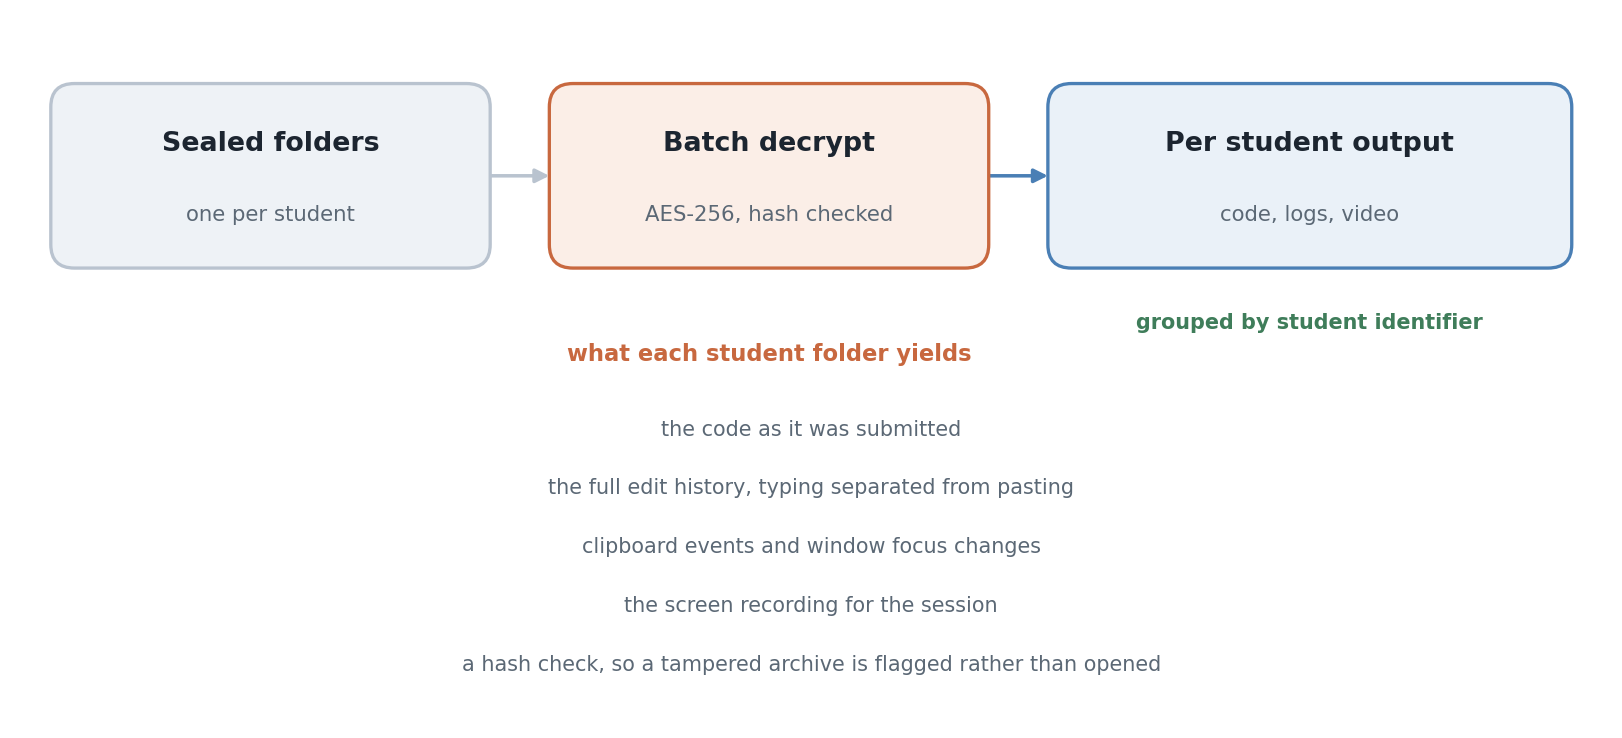
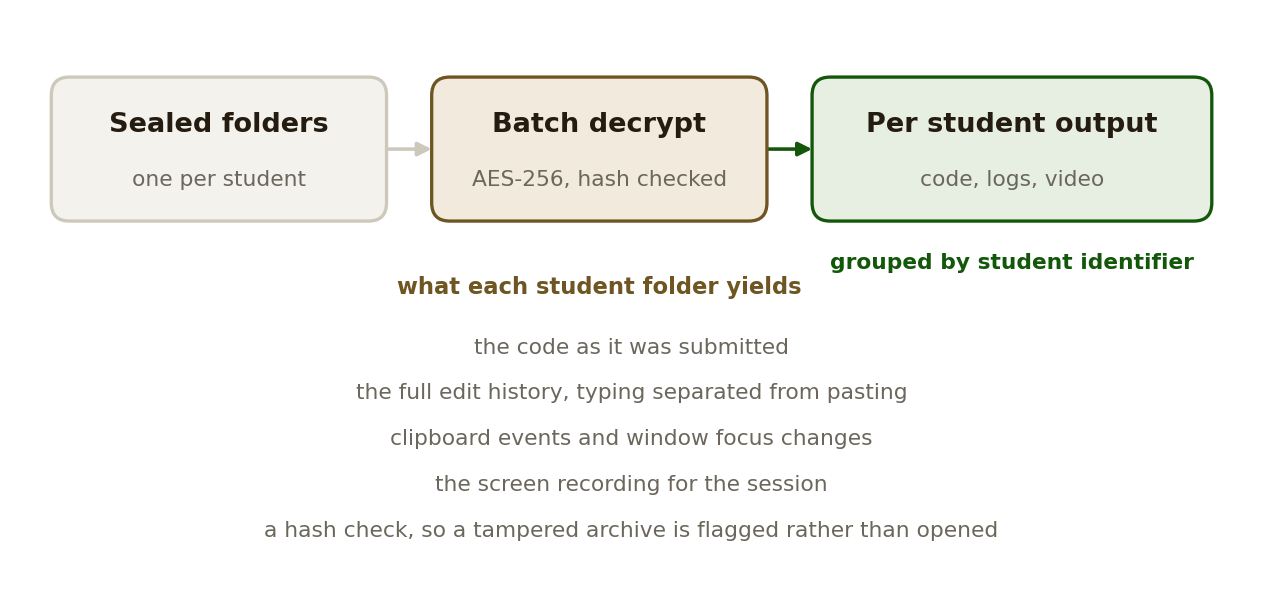
Rebuild README to the second standard
Centered header with shields badges in the fixed order, a Status badge, a
captioned hero redrawn with the shared figstyle palette on a transparent
ground, and a Related section pointing at MINT Exam IDE. README and docs
only; no source file is touched.

diff --git a/docs/figures/figstyle.py b/docs/figures/figstyle.py
@@ -1,0 +1,123 @@
+"""House style for README figures. Copy this file next to make_hero.py.
+
+One palette for every repository, taken from the portfolio site, so a README
+figure, a social preview card and the site read as one hand. Light figures sit
+on GitHub's white canvas, dark figures on its #0d1117 canvas. Both are saved
+with a transparent background: GitHub paints its own canvas behind README
+images, so the figure follows whichever theme the reader has, including the
+dimmed dark theme, without a visible rectangle.
+
+Type: if a fonts/ directory sits beside this file with Archivo-Regular.ttf,
+Archivo-SemiBold.ttf and IBMPlexMono-Medium.ttf (built by
+_standards/fonts/build_fonts.py), labels are set in Archivo and numbers in IBM
+Plex Mono, the site's faces. Without it, DejaVu Sans, so nothing breaks.
+
+    import figstyle
+
+    def draw(T):                       # T is one entry of figstyle.PALETTE
+        fig, ax = plt.subplots(figsize=(figstyle.WIDTH, 4.6))
+        ax.text(..., fontfamily=figstyle.MONO)     # numbers
+        return fig
+
+    figstyle.save_both(draw, HERE + "hero_scenarios")
+    # writes hero_scenarios.png and hero_scenarios-dark.png
+
+Contrast on the canvas each theme is drawn for, WCAG ratio: light green 8.8,
+light gold 7.0, light muted 5.4; dark green 9.8, dark gold 8.4, dark muted 8.2.
+"""
+import glob
+import os
+
+import matplotlib
+
+matplotlib.use("Agg")
+import matplotlib.pyplot as plt
+from matplotlib import font_manager
+
+PALETTE = {
+    "light": dict(
+        canvas="#ffffff",       # GitHub light canvas, for reference only, never painted
+        ink="#241c10",          # site day ink
+        soft="#332918",
+        muted="#6b675c",
+        line="#cdc8bb",
+        fill="#f4f2ec",         # box fill, a warm paper tint on white
+        green="#12570a",        # site day green
+        gold="#6f5522",         # site day gold
+        green_fill="#e6efe2",
+        gold_fill="#f2ebdd",
+    ),
+    "dark": dict(
+        canvas="#0d1117",       # GitHub dark canvas, for reference only, never painted
+        ink="#ece7d9",          # site night ink, bone white
+        soft="#ddd9cb",
+        muted="#a9ac9b",
+        line="#3a3c33",
+        fill="#161811",
+        green="#44d62c",        # site night green, phosphor
+        gold="#c9a96a",         # site night gold, brass
+        green_fill="#12200f",
+        gold_fill="#26211a",
+    ),
+}
+
+DPI = 170
+WIDTH = 9.2      # inches. 900 / (9.2 * 170) = 0.575, so labels survive the README column.
+TITLE = 11.5     # point sizes the standard fixes
+BODY = 9.6
+SMALL = 9.2
+
+_FONTS = os.path.join(os.path.dirname(os.path.abspath(__file__)), "fonts")
+_have_fonts = False
+for _p in glob.glob(os.path.join(_FONTS, "*.ttf")):
+    font_manager.fontManager.addfont(_p)
+    _have_fonts = True
+_names = {f.name for f in font_manager.fontManager.ttflist}
+SANS = "Archivo" if _have_fonts and "Archivo" in _names else "DejaVu Sans"
+MONO = "IBM Plex Mono" if _have_fonts and "IBM Plex Mono" in _names else "DejaVu Sans Mono"
+
+
+def apply(T):
+    """Set matplotlib defaults for one theme. Called by save_both before draw()."""
+    plt.rcParams.update({
+        "font.family": SANS,
+        "font.size": BODY,
+        "text.color": T["ink"],
+        "axes.labelcolor": T["muted"],
+        "axes.edgecolor": T["line"],
+        "axes.linewidth": 1.0,
+        "axes.titlesize": TITLE,
+        "axes.titleweight": "bold",
+        "axes.titlecolor": T["ink"],
+        "axes.spines.top": False,
+        "axes.spines.right": False,
+        "axes.grid": False,
+        "xtick.color": T["muted"],
+        "ytick.color": T["muted"],
+        "xtick.labelsize": BODY,
+        "ytick.labelsize": BODY,
+        "legend.frameon": False,
+        "legend.fontsize": BODY,
+        "figure.facecolor": "none",
+        "axes.facecolor": "none",
+        "savefig.facecolor": "none",
+        "savefig.edgecolor": "none",
+    })
+
+
+def mono_ticks(ax, axis="y"):
+    """Set an axis's tick labels in the numeric face."""
+    for label in (ax.get_yticklabels() if axis == "y" else ax.get_xticklabels()):
+        label.set_fontfamily(MONO)
+
+
+def save_both(draw, stem):
+    """Render draw(T) once per theme and write <stem>.png and <stem>-dark.png."""
+    for theme, suffix in (("light", ""), ("dark", "-dark")):
+        T = PALETTE[theme]
+        apply(T)
+        fig = draw(T)
+        out = f"{stem}{suffix}.png"
+        fig.savefig(out, dpi=DPI, bbox_inches="tight", pad_inches=0.15, transparent=True)
+        plt.close(fig)
+        print("wrote", out)

diff --git a/docs/figures/make_hero.py b/docs/figures/make_hero.py
@@ -1,24 +1,18 @@
-"""Render the grading flow figure used at the top of the README.
+"""Draw the README hero: sealed folders in, per-student results out.
 
     python docs/figures/make_hero.py
 
 Writes hero_grading.png and hero_grading-dark.png.
 """
 import os
+import sys
 
-import matplotlib
-matplotlib.use("Agg")
-import matplotlib.pyplot as plt
-from matplotlib.patches import FancyBboxPatch, FancyArrowPatch
+HERE = os.path.dirname(os.path.abspath(__file__)) + os.sep
+sys.path.insert(0, HERE)
 
-THEMES = {
-    "light": dict(bg="white", ink="#1c2530", muted="#5b6875", line="#b9c3cf",
-                  fill="#eef2f6", watch="#c8683f", seal="#4a7fb5", out="#3f7d5a",
-                  fwatch="#fbeee7", fseal="#eaf1f8", fout="#e9f2ec"),
-    "dark": dict(bg="#0d1117", ink="#e6edf3", muted="#9198a1", line="#3d444d",
-                 fill="#161b22", watch="#e08a5c", seal="#6ea8dd", out="#5aa87a",
-                 fwatch="#2a1c14", fseal="#12202f", fout="#12241a"),
-}
+import figstyle  # noqa: E402
+import matplotlib.pyplot as plt  # noqa: E402
+from matplotlib.patches import FancyArrowPatch, FancyBboxPatch  # noqa: E402
 
 RECORDED = [
     "the code as it was submitted",
@@ -28,26 +22,22 @@ RECORDED = [
     "a hash check, so a tampered archive is flagged rather than opened",
 ]
 
-HERE = os.path.dirname(os.path.abspath(__file__))
 
-
-def render(theme, out):
-    T = THEMES[theme]
-    fig, ax = plt.subplots(figsize=(9.4, 4.2), dpi=170)
+def grading(T):
+    fig, ax = plt.subplots(figsize=(figstyle.WIDTH, 4.2))
     ax.set_xlim(0, 94)
     ax.set_ylim(0, 42)
     ax.axis("off")
-    fig.patch.set_facecolor(T["bg"])
+    G, GF, D, DF = T["green"], T["green_fill"], T["gold"], T["gold_fill"]
 
     def box(x, y, w, h, title, sub, edge=None, face=None, tcol=None):
         ax.add_patch(FancyBboxPatch((x, y), w, h, boxstyle="round,pad=0,rounding_size=1.4",
                                     linewidth=1.4, edgecolor=edge or T["line"],
                                     facecolor=face or T["fill"], zorder=2))
-        ax.text(x + w / 2, y + h / 2 + (1.9 if sub else 0), title, ha="center", va="center",
-                fontsize=11.4, color=tcol or T["ink"], fontweight="bold", zorder=3)
-        if sub:
-            ax.text(x + w / 2, y + h / 2 - 2.3, sub, ha="center", va="center",
-                    fontsize=9.0, color=T["muted"], zorder=3)
+        ax.text(x + w / 2, y + h / 2 + 1.9, title, ha="center", va="center",
+                fontsize=figstyle.TITLE, color=tcol or T["ink"], fontweight="bold", zorder=3)
+        ax.text(x + w / 2, y + h / 2 - 2.3, sub, ha="center", va="center",
+                fontsize=figstyle.SMALL, color=T["muted"], zorder=3)
 
     def arrow(x0, y0, x1, y1, c=None):
         ax.add_patch(FancyArrowPatch((x0, y0), (x1, y1), arrowstyle="-|>", mutation_scale=12,
@@ -56,25 +46,19 @@ def render(theme, out):
     W, H, Y = 26.0, 11.0, 27.0
     box(2.0, Y, W, H, "Sealed folders", "one per student")
     arrow(28.0, Y + H / 2, 31.5, Y + H / 2)
-    box(31.5, Y, W, H, "Batch decrypt", "AES-256, hash checked", T["watch"], T["fwatch"])
-    arrow(57.5, Y + H / 2, 61.0, Y + H / 2, T["seal"])
-    box(61.0, Y, 31.0, H, "Per student output", "code, logs, video", T["seal"], T["fseal"])
+    box(31.5, Y, W, H, "Batch decrypt", "AES-256, hash checked", D, DF)
+    arrow(57.5, Y + H / 2, 61.0, Y + H / 2, G)
+    box(61.0, Y, 31.0, H, "Per student output", "code, logs, video", G, GF)
 
-    ax.text(44.5, 21.5, "what each student folder yields", ha="center", fontsize=9.6,
-            color=T["watch"], fontweight="bold")
+    ax.text(44.5, 21.5, "what each student folder yields", ha="center", fontsize=figstyle.BODY,
+            color=D, fontweight="bold")
     for i, line in enumerate(RECORDED):
         ax.text(47.0, 17.4 - i * 3.5, line, ha="center", va="center",
-                fontsize=8.8, color=T["muted"])
-
+                fontsize=figstyle.SMALL, color=T["muted"])
     ax.text(76.5, Y - 3.6, "grouped by student identifier", ha="center",
-            fontsize=8.8, color=T["out"], fontweight="bold")
-
-    fig.tight_layout(pad=0.2)
-    fig.savefig(out, dpi=170, bbox_inches="tight", facecolor=T["bg"])
-    plt.close(fig)
-    print("wrote", out)
+            fontsize=figstyle.SMALL, color=G, fontweight="bold")
+    return fig
 
 
 if __name__ == "__main__":
-    render("light", os.path.join(HERE, "hero_grading.png"))
-    render("dark", os.path.join(HERE, "hero_grading-dark.png"))
+    figstyle.save_both(grading, HERE + "hero_grading")

diff --git a/README.md b/README.md
@@ -1,18 +1,26 @@
+<div align="center">
+
 # MINT Grader
 
 Yuhyeon Lee · 2026
 
-[![build](https://github.com/blueion0612/Mint_IDE_Teacher/actions/workflows/build.yml/badge.svg)](https://github.com/blueion0612/Mint_IDE_Teacher/actions/workflows/build.yml)
-[![Release](https://img.shields.io/github/v/release/blueion0612/Mint_IDE_Teacher)](https://github.com/blueion0612/Mint_IDE_Teacher/releases)
+[![build](https://img.shields.io/github/actions/workflow/status/blueion0612/Mint_IDE_Teacher/build.yml?label=build)](https://github.com/blueion0612/Mint_IDE_Teacher/actions/workflows/build.yml)
 [![License](https://img.shields.io/github/license/blueion0612/Mint_IDE_Teacher)](LICENSE)
 [![Platform](https://img.shields.io/badge/platform-Windows-lightgrey)](#requirements)
+[![Status](https://img.shields.io/badge/status-maintained-orange)](#limitations)
+[![Release](https://img.shields.io/github/v/release/blueion0612/Mint_IDE_Teacher)](https://github.com/blueion0612/Mint_IDE_Teacher/releases)
 
-[**Releases**](https://github.com/blueion0612/Mint_IDE_Teacher/releases) · [**Student IDE**](https://github.com/blueion0612/Mint_IDE_Student)
+[**Releases**](https://github.com/blueion0612/Mint_IDE_Teacher/releases) · [**Student IDE**](https://github.com/blueion0612/Mint_IDE_Student) · [**Related**](#related)
 
 <picture>
   <source media="(prefers-color-scheme: dark)" srcset="docs/figures/hero_grading-dark.png">
   <img alt="Sealed folders, one per student, are batch decrypted and hash checked, producing code, logs and video grouped by student identifier" src="docs/figures/hero_grading.png">
 </picture>
+
+</div>
+
+*The grading pass. Decryption and the hash check, in gold, run once over the whole
+batch; the per-student output, in green, is what the invigilator reads.*
 
 **MINT Grader** is the invigilator's half of the pair. It takes a directory of sealed
 exam folders produced by
@@ -55,7 +63,7 @@ invigilator and not something this tool decides.
 ```
 src/                  the front end, TypeScript
 src-tauri/            the Rust side: decryption, hash checks, extraction
-docs/figures/         README figure and the script that draws it
+docs/figures/         README figure, the script that draws it, figstyle.py
 ```
 
 ## Requirements
@@ -76,6 +84,11 @@ npx tauri build
   rather than empty.
 - **A hash check proves the archive is unchanged, not that the work is the
   student's.** Reading the edit history is what the tool is for.
+
+## Related
+
+- [MINT Exam IDE](https://github.com/blueion0612/Mint_IDE_Student): the student's
+  half. It records the session and seals the submission this tool opens.
 
 ## License
 
